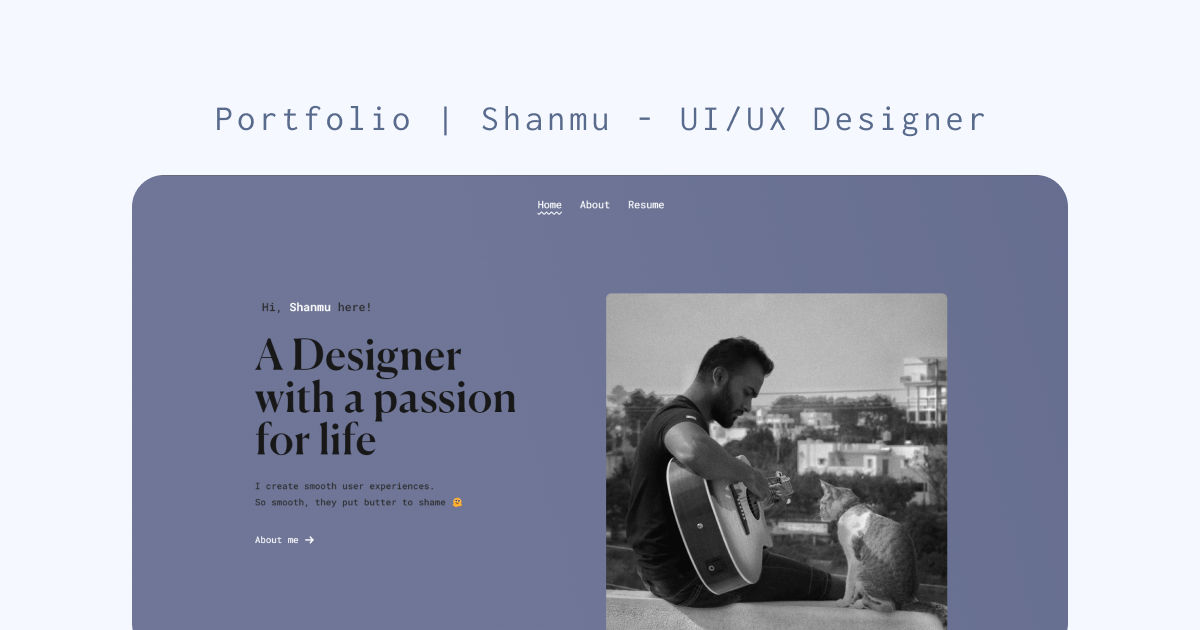
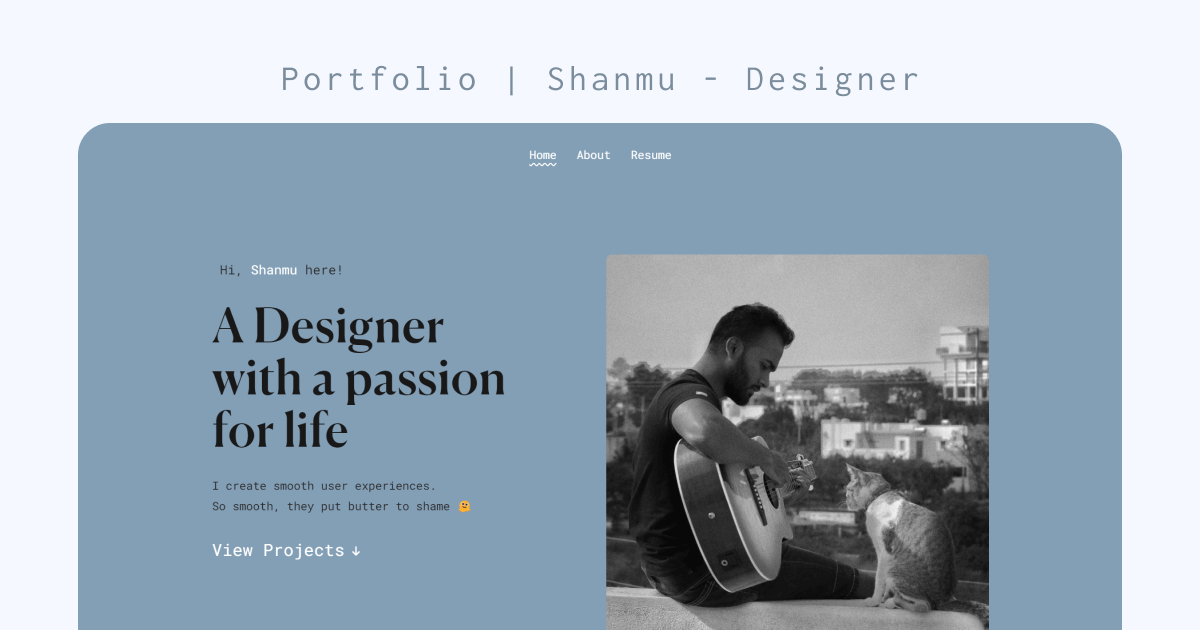
Removed instagram

diff --git a/index.html b/index.html
@@ -14,7 +14,7 @@
         },
         "image": "https://shanmus4.art/assets/img/Intro.jpg",
         "articleSection": "An UI/UX Designer from Bangalore, India.",
-        "articleBody": "I design unique and functional digital products.<BR/>\n              I firmly believe that design is how it works, not just how it looks",
+        "articleBody": "I design unique and functional digital products.<BR/>\n              I firmly believe that design is how it works, not just how it looks. I design for the people",
         "url": "https://shanmus4.art/index.html"
       }
     </script>
@@ -176,7 +176,7 @@
               &nbspHi, <span class="tooltips top">Shanmu</span> here!
             </p>
             <h1>
-              A Designer<br/>
+              A Designer<br />
               with a passion for life
             </h1>
             <p>
@@ -292,11 +292,11 @@
                 >
               </li>
 
-              <li>
+              <!-- <li>
                 <a href="https://www.instagram.com/shanmu__s4/" target="_blank"
                   >Instagram ⟶</a
                 >
-              </li>
+              </li> -->
             </ul>
           </div>
         </div>

diff --git a/about.html b/about.html
@@ -222,10 +222,10 @@
               <a href="https://www.linkedin.com/in/shanmus4/" target="_blank"
                 >LinkedIn</a
               >
-              •
+              <!-- •
               <a href="https://www.instagram.com/shanmu__s4/" target="_blank"
                 >Instagram</a
-              >
+              > -->
             </p>
           </div>
 
@@ -429,11 +429,11 @@
                 >
               </li>
 
-              <li>
+              <!-- <li>
                 <a href="https://www.instagram.com/shanmu__s4/" target="_blank"
                   >Instagram ⟶</a
                 >
-              </li>
+              </li> -->
             </ul>
           </div>
         </div>

diff --git a/projects/aadhaar.html b/projects/aadhaar.html
@@ -562,11 +562,11 @@
                 >
               </li>
 
-              <li>
+              <!-- <li>
                 <a href="https://www.instagram.com/shanmu__s4/" target="_blank"
                   >Instagram ⟶</a
                 >
-              </li>
+              </li> -->
             </ul>
           </div>
         </div>

diff --git a/projects/orangeslice.html b/projects/orangeslice.html
@@ -397,11 +397,11 @@
                 >
               </li>
 
-              <li>
+              <!-- <li>
                 <a href="https://www.instagram.com/shanmu__s4/" target="_blank"
                   >Instagram ⟶</a
                 >
-              </li>
+              </li> -->
             </ul>
           </div>
         </div>

diff --git a/assets/css/style.min.css b/assets/css/style.min.css
@@ -821,7 +821,7 @@ iframe {
   }
 }
 .home {
-  background: #88a3b7;
+  background: #7ba0b9;
   /* background-size: 700% 100% !important; */
   transform: translate3d(0, 0, 0);
 }
@@ -1223,7 +1223,6 @@ nav a.active:after {
   position: relative;
   font-size: 1.5rem;
   font-weight: 200;
-
 }
 .view-work:after {
   content: "";
